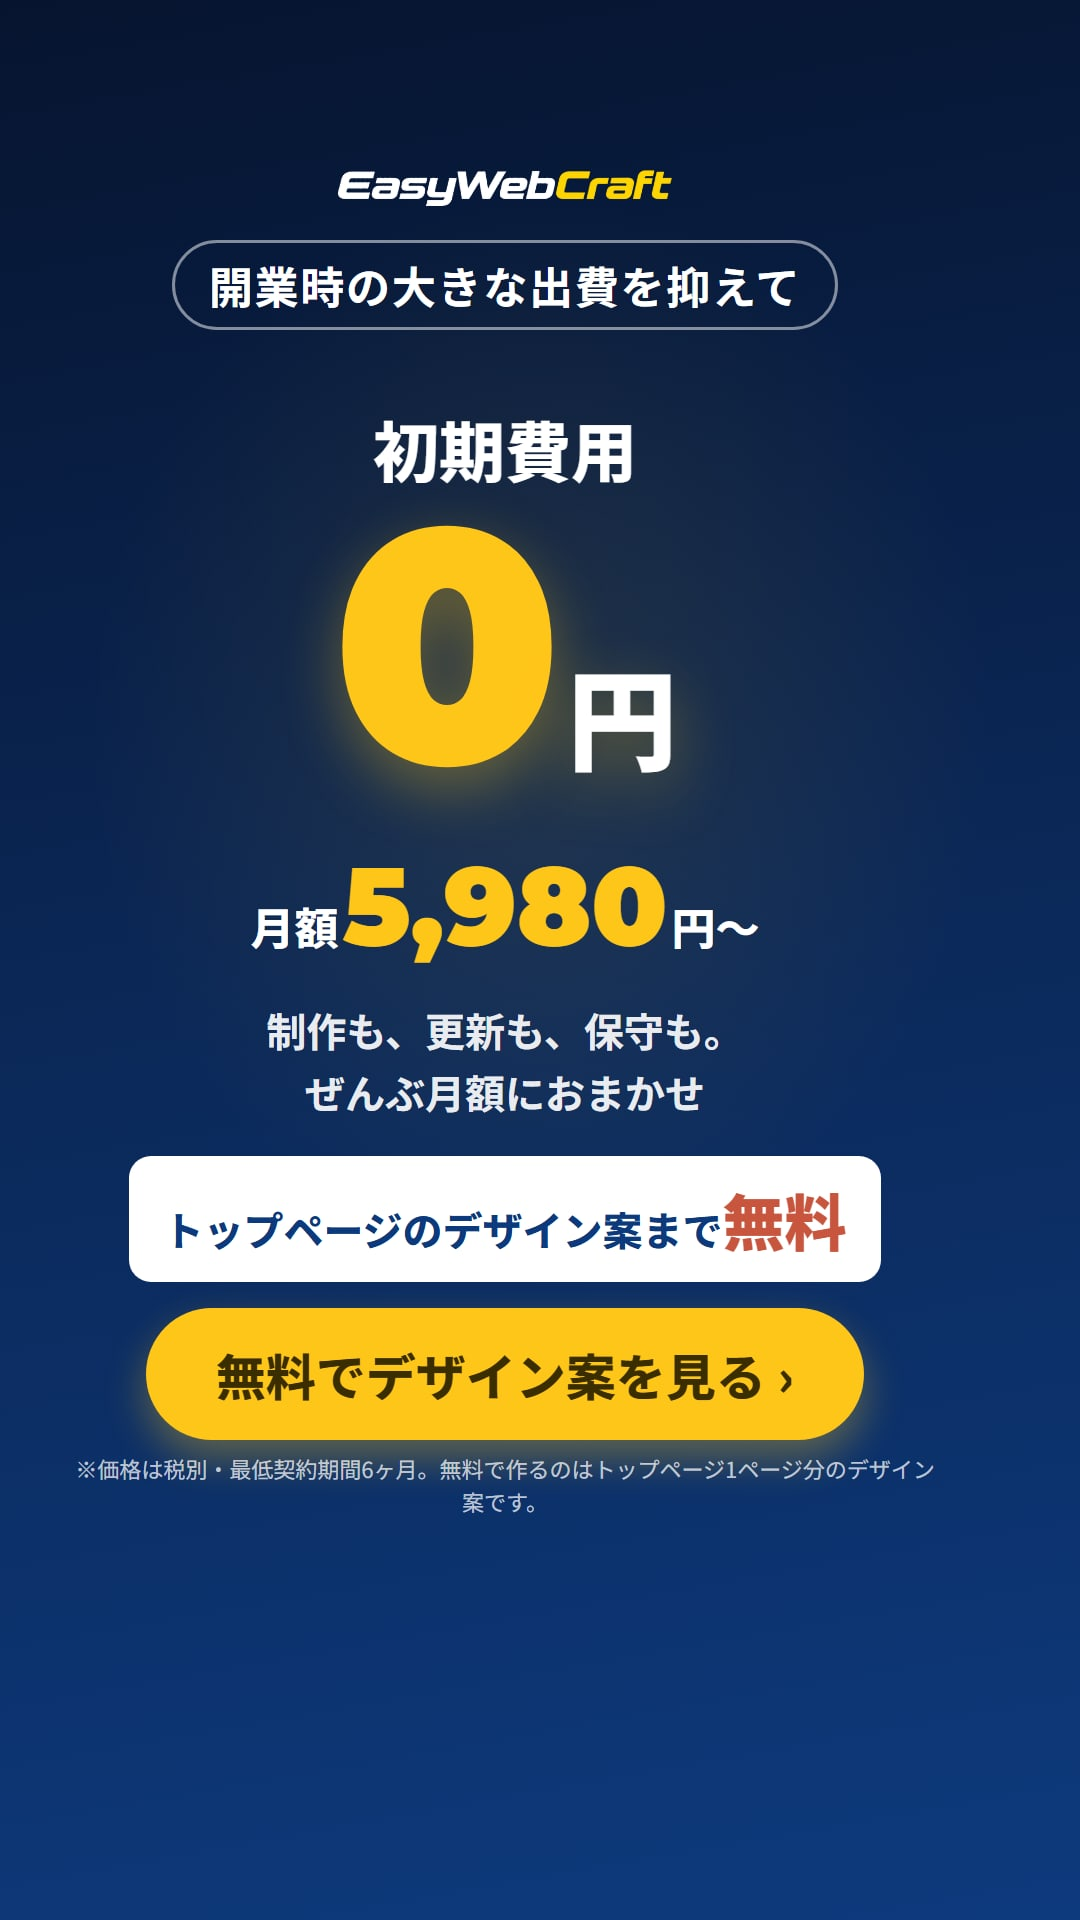
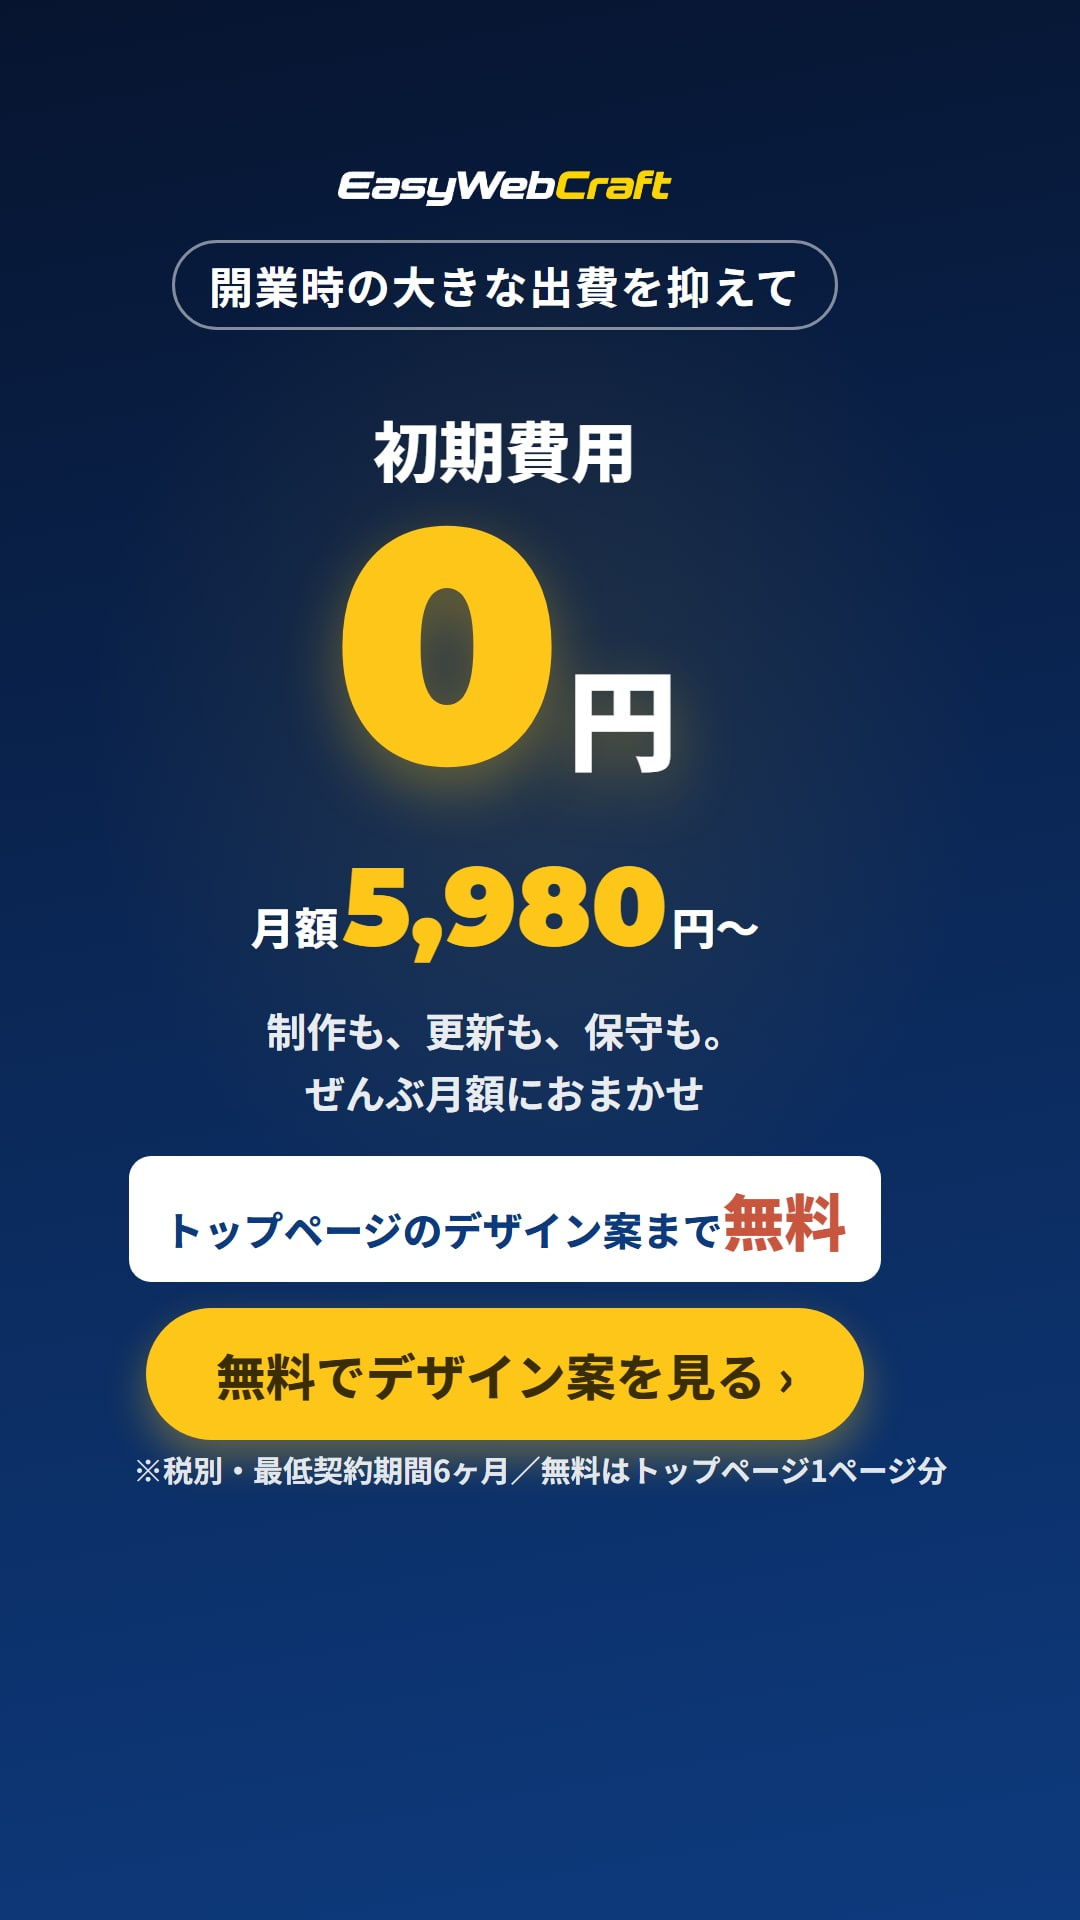
配信前の調整（B'の見出し色・Fの価格・主役の図の拡大・注記の可読性）
- B': 「HPまだ作ってない？」を濃紺にし、黄色は下線だけに（白地でのコントラスト不足を解消）
- F: 初期費用0円（150px）と月額5,980円（90px）を2行で主役に、制作実績の画像は小さく
- D: Instagram画面を拡大 / E: 名刺を拡大しURL欄を強調 / G: 悩みの吹き出しを拡大 / I: 相談→ヒアリング→デザイン案の図を拡大
- 注記を「※税別・最低契約期間6ヶ月／無料はトップページ1ページ分」に短くし、22px→30pxの太字で1行に

Claude-Session: https://claude.ai/code/session_01G65TiHfa1BUco43NvNDLJF

Changed region(s): [[0.0917, 0.75, 0.8861, 0.8125]]

diff --git a/ads.html b/ads.html
@@ -55,15 +55,15 @@ h1{font-weight:900; line-height:1.28; letter-spacing:.01em}
 .brand{margin-bottom:34px}
 .brand img{height:36px; width:auto; display:block}
 .light .brand{background:var(--deep); padding:12px 22px; border-radius:12px}
-.fine{position:absolute; left:70px; right:140px; top:1452px; font-size:22px; line-height:1.5; color:rgba(255,255,255,.72); text-align:center}
-.light .fine{color:var(--muted)}
+.fine{position:absolute; left:40px; right:40px; top:1448px; font-size:30px; font-weight:700; line-height:1.4; color:rgba(255,255,255,.9); text-align:center}
+.light .fine{color:var(--ink)}
 /* 名刺 */
-.card{width:720px; background:#fff; color:var(--ink); border-radius:18px; padding:40px 48px; text-align:left; box-shadow:0 24px 50px rgba(0,0,0,.35)}
-.card .c-co{font-size:30px; font-weight:700; color:var(--muted)}
-.card .c-name{font-size:52px; font-weight:800; color:var(--navy); margin:6px 0 20px}
-.card .c-line{font-size:28px; color:var(--ink); margin-top:4px}
-.card .c-url{font-size:28px; margin-top:12px; font-weight:700}
-.card .c-url span{display:inline-block; border:3px dashed var(--ng); color:var(--ng); border-radius:10px; padding:2px 14px}
+.card{width:860px; background:#fff; color:var(--ink); border-radius:18px; padding:40px 48px; text-align:left; box-shadow:0 24px 50px rgba(0,0,0,.35)}
+.card .c-co{font-size:34px; font-weight:700; color:var(--muted)}
+.card .c-name{font-size:62px; font-weight:800; color:var(--navy); margin:6px 0 20px}
+.card .c-line{font-size:34px; color:var(--ink); margin-top:4px}
+.card .c-url{font-size:40px; margin-top:18px; font-weight:800; background:#fff3f0; border-radius:12px; padding:12px 16px}
+.card .c-url span{display:inline-block; border:4px dashed var(--ng); color:var(--ng); border-radius:10px; padding:4px 18px; font-size:40px}
 /* 開業前の状態 */
 .states{display:grid; grid-template-columns:1fr 1fr; gap:16px; width:820px}
 .states span{background:rgba(255,255,255,.1); border:2px solid rgba(255,255,255,.3); border-radius:18px; padding:22px 6px; font-size:31px; font-weight:800; white-space:nowrap}
@@ -75,10 +75,10 @@ h1{font-weight:900; line-height:1.28; letter-spacing:.01em}
 /* TYPE B：白背景 */
 .ad.white{background:#fff; color:var(--ink)}
 .ad.white .brand{background:var(--deep); padding:12px 22px; border-radius:12px}
-.ad.white .fine{color:var(--muted)}
+.ad.white .fine{color:var(--ink)}
 .w-tag{display:inline-block; background:var(--navy); color:#fff; font-size:40px; font-weight:800; border-radius:999px; padding:10px 36px}
 .ad.white h1{color:var(--ink)}
-.mkr{background:linear-gradient(transparent 58%, #ffe45c 58%); padding:0 6px}
+.mkr{color:var(--navy); background:linear-gradient(transparent 72%, #ffd400 72%); padding:0 6px}
 .w-row{display:flex; align-items:center; gap:26px; width:870px}
 .phone.big{flex:0 0 270px; width:270px; border-color:#1b2437}
 .w-list{list-style:none; margin:0; padding:0; display:flex; flex-direction:column; gap:18px; text-align:left}
@@ -90,6 +90,15 @@ h1{font-weight:900; line-height:1.28; letter-spacing:.01em}
 .w-price span{color:#c3ccd8; margin:0 10px; font-weight:400}
 .w-free{display:inline-block; background:var(--navy); color:#fff; font-size:38px; font-weight:800; border-radius:18px; padding:16px 30px; white-space:nowrap}
 .w-free b{color:var(--accent); font-size:48px}
+.price.big{font-size:56px; line-height:1}
+.price.big .num{font-size:150px}
+.price.mid{font-size:44px; margin-top:6px}
+.price.mid .num{font-size:90px}
+.bubbles.lg{gap:30px; width:860px}
+.bubbles.lg div{font-size:54px; padding:28px 46px}
+.flow.lg{width:800px; gap:46px}
+.flow.lg li{font-size:56px; padding:32px 52px}
+.flow.lg li b{font-size:70px}
 /* 画像部品 */
 .mock{position:relative; width:760px; padding-right:150px}
 .mock .pc{border:14px solid #1b2437; border-bottom-width:24px; border-radius:22px; overflow:hidden; background:#fff; box-shadow:0 30px 60px rgba(0,0,0,.35)}
@@ -159,12 +168,13 @@ h1{font-weight:900; line-height:1.28; letter-spacing:.01em}
   <div class="gap-m"></div>
   <h1 class="h-l">ホームページの<br>デザイン案を<br><span class="y" style="font-size:112px">無料</span>で作ります</h1>
   <div class="gap-m"></div>
-  <div class="mock"><div class="pc"><img src="img/dining.webp" alt=""></div><div class="phone"><img src="img/m-dining.webp" alt=""></div></div>
+  <div class="mock" style="width:620px; padding-right:120px"><div class="pc"><img src="img/dining.webp" alt=""></div><div class="phone" style="width:170px"><img src="img/m-dining.webp" alt=""></div></div>
   <div class="sp"></div>
-  <p class="price">初期費用<span class="num">0</span>円｜月額<span class="num" style="font-size:66px">5,980</span>円～</p>
+  <p class="price big">初期費用<span class="num">0</span>円</p>
+  <p class="price mid">月額<span class="num">5,980</span>円～</p>
   <div class="gap-s"></div>
   <p class="cta">無料でデザイン案を見る</p>
-</div><p class="fine">※価格は税別・最低契約期間6ヶ月。無料で作るのはトップページ1ページ分のデザイン案です。</p></section>
+</div><p class="fine">※税別・最低契約期間6ヶ月／無料はトップページ1ページ分</p></section>
 
 <!-- 2. いきなり契約しなくてOK -->
 <section class="ad" id="a2"><div class="in">
@@ -173,7 +183,7 @@ h1{font-weight:900; line-height:1.28; letter-spacing:.01em}
   <div class="gap-s"></div>
   <h1 class="h-m">まず、あなたのHPを<br><span class="y">見てから決めてください</span></h1>
   <div class="gap-l"></div>
-  <ol class="flow">
+  <ol class="flow lg">
     <li>相談<b>0<small>円</small></b></li>
     <li>ヒアリング<b>0<small>円</small></b></li>
     <li>デザイン案<b>0<small>円</small></b></li>
@@ -181,7 +191,7 @@ h1{font-weight:900; line-height:1.28; letter-spacing:.01em}
   </ol>
   <div class="sp"></div>
   <p class="cta">無料でデザイン案を見る</p>
-</div><p class="fine">※価格は税別・最低契約期間6ヶ月。無料で作るのはトップページ1ページ分のデザイン案です。</p></section>
+</div><p class="fine">※税別・最低契約期間6ヶ月／無料はトップページ1ページ分</p></section>
 
 <!-- 3. HP、開業前に用意しませんか？ -->
 <section class="ad photo" id="a3"><div class="in">
@@ -199,7 +209,7 @@ h1{font-weight:900; line-height:1.28; letter-spacing:.01em}
   <p class="free">トップページのデザイン案まで<b>無料</b></p>
   <div class="gap-s"></div>
   <p class="cta">無料でデザイン案を見る</p>
-</div><p class="fine">※価格は税別・最低契約期間6ヶ月。無料で作るのはトップページ1ページ分のデザイン案です。</p></section>
+</div><p class="fine">※税別・最低契約期間6ヶ月／無料はトップページ1ページ分</p></section>
 
 <!-- 4. 初期費用0円 -->
 <section class="ad" id="a4"><div class="in">
@@ -216,7 +226,7 @@ h1{font-weight:900; line-height:1.28; letter-spacing:.01em}
   <p class="free">トップページのデザイン案まで<b>無料</b></p>
   <div class="gap-s"></div>
   <p class="cta">無料でデザイン案を見る</p>
-</div><p class="fine">※価格は税別・最低契約期間6ヶ月。無料で作るのはトップページ1ページ分のデザイン案です。</p></section>
+</div><p class="fine">※税別・最低契約期間6ヶ月／無料はトップページ1ページ分</p></section>
 
 <!-- 5. 何を載せればいいかわからない方へ -->
 <section class="ad light" id="a5"><div class="in">
@@ -232,38 +242,38 @@ h1{font-weight:900; line-height:1.28; letter-spacing:.01em}
   <p class="answer">お話をうかがって、<br>載せる内容をこちらで整理します</p>
   <div class="sp"></div>
   <p class="cta">無料でデザイン案を見る</p>
-</div><p class="fine">※価格は税別・最低契約期間6ヶ月。無料で作るのはトップページ1ページ分のデザイン案です。</p></section>
+</div><p class="fine">※税別・最低契約期間6ヶ月／無料はトップページ1ページ分</p></section>
 
 <!-- 6. 文章・写真がなくてもOK -->
 <section class="ad" id="a6"><div class="in">
   <p class="brand"><img src="img/logo-mark.webp" alt="EasyWebCraft"></p>
   <p class="kicker">HPを作りたいけど……</p>
   <div class="gap-m"></div>
-  <div class="bubbles"><div>文章が書けない</div><div>写真がまだない</div><div>屋号も決まっていない</div></div>
+  <div class="bubbles lg"><div>文章が書けない</div><div>写真がまだない</div><div>屋号も決まっていない</div></div>
   <div class="gap-l"></div>
   <h1 class="h-l">それでも<br><span class="y">大丈夫です</span></h1>
   <div class="gap-m"></div>
   <p class="sub">話を聞いて、<br>こちらで文章の下書きを作ります</p>
   <div class="sp"></div>
   <p class="cta">無料でデザイン案を見る</p>
-</div><p class="fine">※価格は税別・最低契約期間6ヶ月。無料で作るのはトップページ1ページ分のデザイン案です。</p></section>
+</div><p class="fine">※税別・最低契約期間6ヶ月／無料はトップページ1ページ分</p></section>
 
 <!-- 7. Instagramだけで大丈夫？ -->
 <section class="ad" id="a7"><div class="in">
   <p class="brand"><img src="img/logo-mark.webp" alt="EasyWebCraft"></p>
   <h1 class="h-l">Instagramだけで<br><span class="y">大丈夫？</span></h1>
   <div class="gap-m"></div>
-  <div class="ba"><figure class="before"><div class="phone" style="width:330px"><div class="sns">
+  <div class="ba"><figure class="before"><div class="phone" style="width:380px"><div class="sns">
     <div class="bar">instagram</div>
     <div class="prof"><span class="av"></span><div style="flex:1"><div class="ln"></div><div class="ln" style="width:60%"></div></div></div>
     <div class="grid"><i></i><i></i><i></i><i></i><i></i><i></i></div>
     <div class="qs"><span>どんな店？</span><span>料金どこ？</span><span>営業時間は？</span></div>
   </div></div></figure></div>
-  <div class="gap-m"></div>
+  <div class="gap-s"></div>
   <p class="sub">料金・営業時間・場所が<br><span class="y">ひと目で分かる場所</span>を、開業時から</p>
   <div class="sp"></div>
   <p class="cta">無料でデザイン案を見る</p>
-</div><p class="fine">※価格は税別・最低契約期間6ヶ月。無料で作るのはトップページ1ページ分のデザイン案です。</p></section>
+</div><p class="fine">※税別・最低契約期間6ヶ月／無料はトップページ1ページ分</p></section>
 
 <!-- 8. 名刺を渡したあと -->
 <section class="ad photo" id="a8"><div class="in">
@@ -281,7 +291,7 @@ h1{font-weight:900; line-height:1.28; letter-spacing:.01em}
   <p class="sub">事業内容を確認できる<br>ホームページがあると<span class="y">安心</span>です</p>
   <div class="sp"></div>
   <p class="cta">無料でデザイン案を見る</p>
-</div><p class="fine">※価格は税別・最低契約期間6ヶ月。無料で作るのはトップページ1ページ分のデザイン案です。</p></section>
+</div><p class="fine">※税別・最低契約期間6ヶ月／無料はトップページ1ページ分</p></section>
 
 <!-- 9. BEFORE → AFTER -->
 <section class="ad" id="a9"><div class="in">
@@ -302,7 +312,7 @@ h1{font-weight:900; line-height:1.28; letter-spacing:.01em}
   <p class="free">トップページのデザイン案まで<b>無料</b></p>
   <div class="gap-s"></div>
   <p class="cta">無料でデザイン案を見る</p>
-</div><p class="fine">※価格は税別・最低契約期間6ヶ月。無料で作るのはトップページ1ページ分のデザイン案です。</p></section>
+</div><p class="fine">※税別・最低契約期間6ヶ月／無料はトップページ1ページ分</p></section>
 
 <!-- 10. 1日約200円 -->
 <section class="ad photo" id="a10"><div class="in">
@@ -319,7 +329,7 @@ h1{font-weight:900; line-height:1.28; letter-spacing:.01em}
   <p class="price" style="font-size:40px">初期費用<span class="num" style="font-size:70px">0</span>円｜月額<span class="num" style="font-size:56px">5,980</span>円～</p>
   <div class="gap-s"></div>
   <p class="cta">無料でデザイン案を見る</p>
-</div><p class="fine">※1日約200円＝月額5,980円（税別）÷30日の目安。最低契約期間6ヶ月。デザイン案はトップページ1ページ分を無料で作成。</p></section>
+</div><p class="fine">※月額5,980円（税別）÷30日の目安／最低契約期間6ヶ月</p></section>
 
 <!-- 11（B）開業直後：開業したけどHPまだない？ -->
 <section class="ad" id="a11"><div class="in">
@@ -335,7 +345,7 @@ h1{font-weight:900; line-height:1.28; letter-spacing:.01em}
   <p class="free">トップページのデザイン案まで<b>無料</b></p>
   <div class="gap-s"></div>
   <p class="cta">無料でデザイン案を見る</p>
-</div><p class="fine">※価格は税別・最低契約期間6ヶ月。無料で作るのはトップページ1ページ分のデザイン案です。</p></section>
+</div><p class="fine">※税別・最低契約期間6ヶ月／無料はトップページ1ページ分</p></section>
 
 <!-- 12（C）開業1〜3ヶ月：そろそろHPを作りませんか？ -->
 <section class="ad photo" id="a12"><div class="in">
@@ -350,7 +360,7 @@ h1{font-weight:900; line-height:1.28; letter-spacing:.01em}
   <p class="free">トップページのデザイン案まで<b>無料</b></p>
   <div class="gap-s"></div>
   <p class="cta">無料でデザイン案を見る</p>
-</div><p class="fine">※価格は税別・最低契約期間6ヶ月。無料で作るのはトップページ1ページ分のデザイン案です。</p></section>
+</div><p class="fine">※税別・最低契約期間6ヶ月／無料はトップページ1ページ分</p></section>
 
 <!-- 13（E）名刺作成済み：名刺に載せるHPありますか？ -->
 <section class="ad" id="a13"><div class="in">
@@ -370,7 +380,7 @@ h1{font-weight:900; line-height:1.28; letter-spacing:.01em}
   <p class="sub">名刺のURLから、<br>事業の中身まで<span class="y">伝わるように</span></p>
   <div class="sp" style="min-height:30px"></div>
   <p class="cta">無料でデザイン案を見る</p>
-</div><p class="fine">※価格は税別・最低契約期間6ヶ月。無料で作るのはトップページ1ページ分のデザイン案です。</p></section>
+</div><p class="fine">※税別・最低契約期間6ヶ月／無料はトップページ1ページ分</p></section>
 
 <!-- 14（J）開業準備中：開業前から相談OK -->
 <section class="ad photo" id="a14"><div class="in">
@@ -386,7 +396,7 @@ h1{font-weight:900; line-height:1.28; letter-spacing:.01em}
   <p class="free">トップページのデザイン案まで<b>無料</b></p>
   <div class="gap-s"></div>
   <p class="cta">無料でデザイン案を見る</p>
-</div><p class="fine">※価格は税別・最低契約期間6ヶ月。無料で作るのはトップページ1ページ分のデザイン案です。</p></section>
+</div><p class="fine">※税別・最低契約期間6ヶ月／無料はトップページ1ページ分</p></section>
 
 <!-- 15（B・白背景）TYPE B：開業したけどHPまだ作ってない？ -->
 <section class="ad white" id="a15"><div class="in">
@@ -409,7 +419,7 @@ h1{font-weight:900; line-height:1.28; letter-spacing:.01em}
   <p class="w-free">トップページのデザイン案まで<b>無料</b></p>
   <div class="gap-s"></div>
   <p class="cta">無料でデザイン案を見る</p>
-</div><p class="fine">※価格は税別・最低契約期間6ヶ月。無料で作るのはトップページ1ページ分のデザイン案です。</p></section>
+</div><p class="fine">※税別・最低契約期間6ヶ月／無料はトップページ1ページ分</p></section>
 
 <script>
 // 画面幅が1080pxより狭いときは、全体を縮小して見られるようにする（書き出し時は1080pxで開くので影響なし）

diff --git a/index.html b/index.html
@@ -170,7 +170,7 @@ code{background:var(--bg); padding:0 5px; border-radius:4px}
       <li>フォームの「いまの状況」とあわせて、狙った層と実際の問い合わせ層のずれを確認する</li>
       <li>反応の弱いものを2巡目の4本と入れ替える。2巡目はデザインの型（白背景・写真主体・比較型）も変えて比べる</li>
     </ol>
-    <p style="margin:12px 0 0">全画像に注記（税別・最低契約期間6ヶ月・無料はトップページ1ページ分）入り。文言を直すときは <code>ads.html</code> を編集して書き出し直します。</p>
+    <p style="margin:12px 0 0">全画像に注記（税別・最低契約期間6ヶ月／無料はトップページ1ページ分）を読めるサイズで入れ、詳しい条件はLPで案内。文言を直すときは <code>ads.html</code> を編集して書き出し直します。</p>
   </div>
 </div>
 </body>
